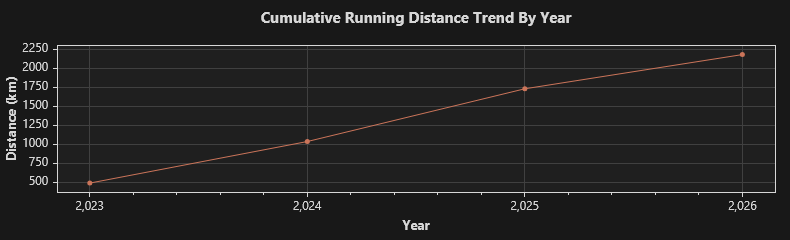
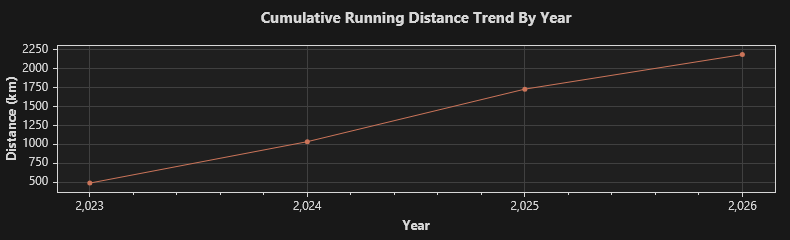
2026/8/26 跑步 6.19 公里

diff --git a/trend.md b/trend.md
@@ -1,4 +1,4 @@
-### Total: 370 days, 2177.7600000000002182787284255 km.
+### Total: 371 days, 2183.9499999999998181010596454 km.
 
 
 ![Monthly](https://github.com/prime167/MyRunningLog/blob/main/data/CumulativeTrendByMonth.png)
